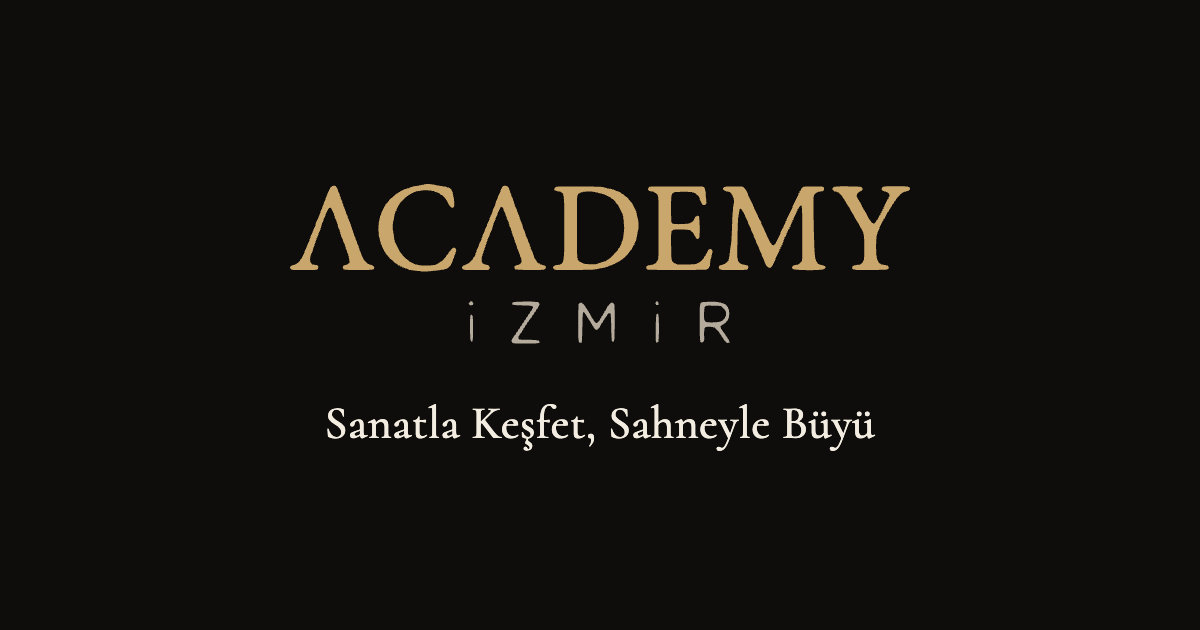
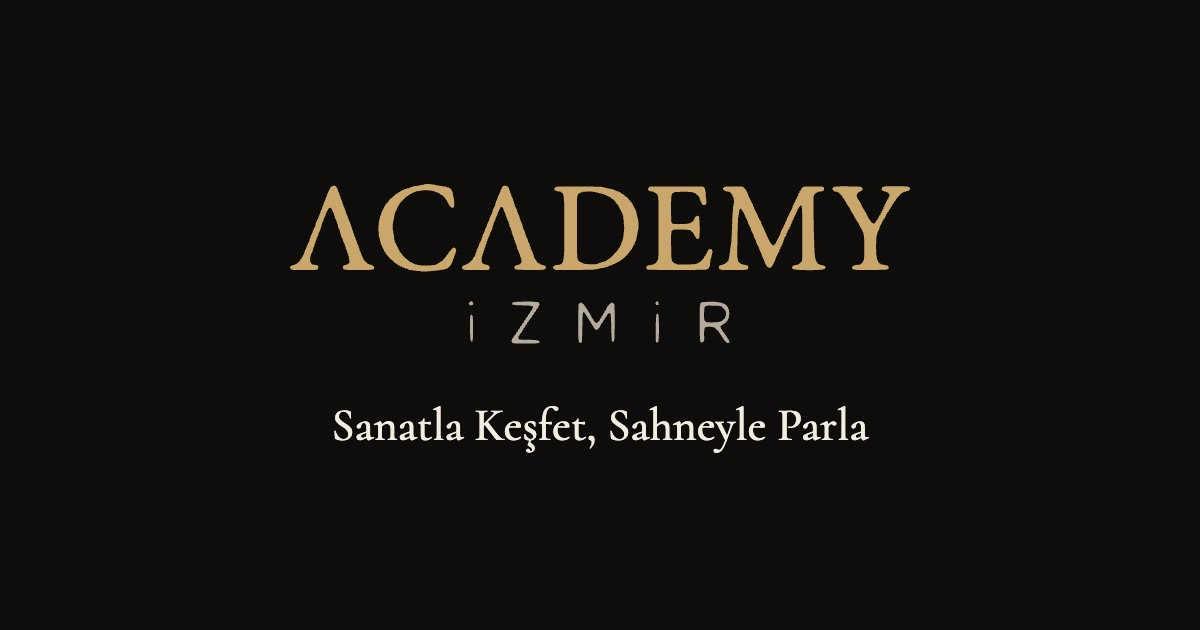
Slogan, duyurular, Ebru Parıltı, Sanatsal Projeler ve GTM body desteği

Changed region(s): [[0.2775, 0.6333, 0.74, 0.7238]]

diff --git a/site/httpdocs/assets/js/main.js b/site/httpdocs/assets/js/main.js
@@ -435,12 +435,16 @@ document.addEventListener('pointerdown', function () { lastInput = 'pointer'; },
 /* ---- Lightbox (galeri, native <dialog>) -----------------------------------------------------------
    Fotoğraf bağlantıları -1600 sürümüne gider (JS yokken normal bağlantı). JS varken dialog açılır:
    önceki/sonraki düğmeleri, ok tuşları, dokunmatikte kaydırma, sayaç. Esc native dialog ile kapatır,
-   kapanınca odak tıklanan fotoğrafa döner, arka plan kaymaz. */
+   kapanınca odak tıklanan fotoğrafa döner, arka plan kaymaz.
+   data-lightbox-group aynı olan görseller kendi aralarında bir küme olur (Sanatsal Projelerimiz: bir oyunun
+   afişi ve sahne fotoğrafları). Grupsuz görseller galeri kümesidir. Tek görsellik kümede gezinme gizlenir.
+   Gizli (hidden) bağlantılar yalnızca kümeye görsel ekler, odak ve kaydırma tıklanan bağlantıya döner. */
 (function () {
   'use strict';
 
   var dialog = document.querySelector('[data-lightbox]');
-  var tiles = Array.prototype.slice.call(document.querySelectorAll('[data-lightbox-item]'));
+  var allTiles = Array.prototype.slice.call(document.querySelectorAll('[data-lightbox-item]'));
+  var tiles = allTiles;
   if (!dialog || !tiles.length || typeof dialog.showModal !== 'function') { return; }
 
   var image = dialog.querySelector('[data-lightbox-image]');
@@ -462,6 +466,7 @@ document.addEventListener('pointerdown', function () { lastInput = 'pointer'; },
     image.alt = thumb.alt;
     image.src = tile.getAttribute('href');
     counter.textContent = (index + 1) + ' / ' + tiles.length;
+    dialog.classList.toggle('is-single', tiles.length === 1);
     previous.setAttribute('aria-disabled', index === 0 ? 'true' : 'false');
     next.setAttribute('aria-disabled', index === tiles.length - 1 ? 'true' : 'false');
     [index - 1, index + 1].forEach(function (i) {
@@ -475,11 +480,14 @@ document.addEventListener('pointerdown', function () { lastInput = 'pointer'; },
     show(target);
   }
 
-  tiles.forEach(function (tile, index) {
+  allTiles.forEach(function (tile) {
+    if (tile.hidden) { return; }
     tile.addEventListener('click', function (event) {
       event.preventDefault();
       trigger = tile;
-      show(index);
+      var group = tile.getAttribute('data-lightbox-group');
+      tiles = allTiles.filter(function (other) { return other.getAttribute('data-lightbox-group') === group; });
+      show(tiles.indexOf(tile));
       dialog.showModal();
       document.body.classList.add('is-lightbox-open');
     });
@@ -495,6 +503,7 @@ document.addEventListener('pointerdown', function () { lastInput = 'pointer'; },
     /* Odak, o an gösterilen fotoğrafa döner. Ekranda değilse görünür olacak şekilde kaydırılır
        (hareket azaltma tercihinde animasyonsuz). */
     var shown = tiles[current] || trigger;
+    if (shown && shown.hidden) { shown = trigger; }
     if (shown) {
       shown.focus({ preventScroll: true });
       var rect = shown.getBoundingClientRect();

diff --git a/site/httpdocs/assets/css/components.css b/site/httpdocs/assets/css/components.css
@@ -2654,6 +2654,63 @@ textarea.form-control {
   gap: var(--space-5);
 }
 
+/* Sanatsal Projelerimiz: mobilde 1, 48em'de 2, 64em'de 3 sütun. Afişler farklı oranlarda olduğu için
+   hepsi aynı yükseklikteki bir kutuda, kırpılmadan (contain) ve ortalanmış durur. */
+.project-grid {
+  display: grid;
+  grid-template-columns: minmax(0, 1fr);
+  gap: var(--space-7) var(--gutter);
+}
+
+.project-card-link {
+  display: grid;
+  align-content: start;
+  gap: var(--space-4);
+}
+
+.project-card-media {
+  display: block;
+  aspect-ratio: var(--ratio-portrait-tall);
+  background-color: var(--color-surface);
+  border: var(--line-width) solid var(--color-line);
+  transition: border-color var(--duration-base) var(--ease-out);
+}
+
+.project-card-media img {
+  display: block;
+  width: 100%;
+  height: 100%;
+  object-fit: contain;
+}
+
+.project-card-title {
+  font-size: var(--text-xl);
+  line-height: var(--leading-heading);
+}
+
+@media (hover: hover) {
+  .project-card-link:hover .project-card-media {
+    border-color: var(--color-accent);
+  }
+}
+
+/* Duyurular sayfası giriş metni */
+.announcements-intro {
+  display: grid;
+  gap: var(--space-4);
+  max-width: var(--measure);
+  padding-bottom: var(--space-7);
+}
+
+.announcements-intro .section-lead {
+  max-width: none;
+}
+
+/* Tek görselli kümede (tek görsellik proje) önceki/sonraki ve sayaç gizlenir. */
+.lightbox.is-single .lightbox-nav {
+  display: none;
+}
+
 /* Galeri mozaiği: mobilde iki sütunlu sıkı akış (görüntü oranı korunur), 48em üstünde
    ana sayfadaki gibi her satırı dolduran justified satırlar. */
 .gallery-mosaic {
@@ -2783,6 +2840,10 @@ textarea.form-control {
   .video-pair {
     grid-template-columns: repeat(2, minmax(0, 1fr));
     gap: var(--gutter);
+  }
+
+  .project-grid {
+    grid-template-columns: repeat(2, minmax(0, 1fr));
   }
 
   .gallery-mosaic {
@@ -3272,5 +3333,11 @@ textarea.form-control {
   .site-body.is-menu-open .whatsapp-float,
   .site-body.is-lightbox-open .whatsapp-float {
     display: none;
+  }
+}
+
+@media (min-width: 64em) {
+  .project-grid {
+    grid-template-columns: repeat(3, minmax(0, 1fr));
   }
 }

diff --git a/site/private/components.php b/site/private/components.php
@@ -252,6 +252,37 @@ function gallery_mosaic(): void
     }
 }
 
+/**
+ * Sanatsal Projelerimiz kartları (site.json "projects"). Kart, oyunun ilk görselini (afiş) gösterir ve
+ * lightbox'ı o oyunun bütün görselleriyle açar. Aynı oyunun diğer görselleri gizli bağlantı olarak
+ * basılır (data-lightbox-group aynı), JS yokken yalnızca afiş bağlantısı çalışır.
+ */
+function project_cards(): void
+{
+    foreach (site()['projects'] as $n => $project) {
+        $group = 'project-' . $project['id'];
+        $count = count($project['images']);
+        $first = $project['images'][0];
+        [$bw, $bh] = image_size($first['src_1600']);
+        [$w, $h] = image_size($first['src_800']);
+        echo '<article class="project-card">
+            <a class="project-card-link" href="' . e(asset($first['src_1600'])) . '" data-lightbox-item data-lightbox-group="' . e($group) . '" data-w="' . $bw . '" data-h="' . $bh . '">
+              <span class="project-card-media">
+                <img src="' . e(asset($first['src_800'])) . '" width="' . $w . '" height="' . $h . '"' . ($n < 3 ? '' : ' loading="lazy"') . ' alt="' . e($first['alt']) . '">
+              </span>
+              <h3 class="project-card-title">' . e($project['title']) . '</h3>
+            </a>';
+        for ($i = 1; $i < $count; $i++) {
+            $extra = $project['images'][$i];
+            [$ebw, $ebh] = image_size($extra['src_1600']);
+            echo '
+            <a href="' . e(asset($extra['src_1600'])) . '" hidden data-lightbox-item data-lightbox-group="' . e($group) . '" data-w="' . $ebw . '" data-h="' . $ebh . '"><img src="' . e(asset($extra['src_800'])) . '" alt="' . e($extra['alt']) . '"></a>';
+        }
+        echo '
+          </article>' . "\n";
+    }
+}
+
 /** Başvuru formundaki seçenekler (site.json "application" nesnesi). */
 function select_options(array $options, string $placeholder, string $selected = ''): void
 {

diff --git a/site/private/partials/head.php b/site/private/partials/head.php
@@ -1,10 +1,12 @@
 <?php
-/** <!DOCTYPE> ile <body> açılışına kadar: title, meta, canonical, og, fontlar, CSS, JS. */
+/** <!DOCTYPE> ile <body> açılışına kadar: title, meta, canonical, og, fontlar, CSS, JS.
+ *  head_scripts charset ve viewport'tan hemen sonra, body_scripts <body> açılışının hemen ardından basılır. */
 $p = page();
 $canonical = absolute_url($p['path']);
 $ogImage = base_url() . '/assets/images/og-image.jpg';
 $searchConsole = trim((string) config('search_console_meta', ''));
-$headScripts = (array) config('head_scripts', []);
+$headScripts = array_filter((array) config('head_scripts', []), static fn ($s): bool => is_string($s) && trim($s) !== '');
+$bodyScripts = array_filter((array) config('body_scripts', []), static fn ($s): bool => is_string($s) && trim($s) !== '');
 $hidden = !empty($p['hidden']);
 ?>
 <!DOCTYPE html>
@@ -12,6 +14,10 @@ $hidden = !empty($p['hidden']);
 <head>
   <meta charset="utf-8">
   <meta name="viewport" content="width=device-width, initial-scale=1">
+<?php foreach ($headScripts as $snippet): ?>
+  <?= $snippet ?>
+
+<?php endforeach; ?>
   <title><?= e($p['title']) ?></title>
   <meta name="description" content="<?= e($p['description']) ?>">
 <?php if ($hidden): ?>
@@ -52,9 +58,9 @@ $hidden = !empty($p['hidden']);
   <link rel="stylesheet" href="/assets/css/base.css">
   <link rel="stylesheet" href="/assets/css/components.css">
   <script src="/assets/js/main.js" defer></script>
-<?php foreach ($headScripts as $snippet): ?>
-  <?= $snippet ?>
-
-<?php endforeach; ?>
 </head>
 <body class="site-body">
+<?php foreach ($bodyScripts as $snippet): ?>
+<?= $snippet ?>
+
+<?php endforeach; ?>

diff --git a/site/httpdocs/gallery.php b/site/httpdocs/gallery.php
@@ -18,9 +18,8 @@ partial('mobile-menu');
         <header class="section-header">
           <h2 class="section-title" id="gallery-projects-title">Sanatsal <em>Projelerimiz</em></h2>
         </header>
-        <div class="content-placeholder">
-          <p class="pending-note">[İÇERİK GELECEK]</p>
-          <p class="content-placeholder-text">Tiyatro yapımları, sahne çalışmaları ve Academy İzmir Trio</p>
+        <div class="project-grid">
+<?php project_cards(); ?>
         </div>
       </div>
     </section>
@@ -59,7 +58,7 @@ partial('mobile-menu');
       </div>
       <div class="lightbox-nav">
         <button class="lightbox-button" type="button" aria-label="Önceki fotoğraf" data-lightbox-prev><span class="material-symbols-outlined" aria-hidden="true">arrow_back</span></button>
-        <p class="lightbox-counter" data-lightbox-counter>1 / <?= count(site()['gallery']) ?></p>
+        <p class="lightbox-counter" data-lightbox-counter>1 / 1</p>
         <button class="lightbox-button" type="button" aria-label="Sonraki fotoğraf" data-lightbox-next><span class="material-symbols-outlined" aria-hidden="true">arrow_forward</span></button>
       </div>
     </dialog>

diff --git a/site/private/config.example.php b/site/private/config.example.php
@@ -22,8 +22,13 @@ return [
     // Zaman tuzağı imzası ve IP özeti için rastgele uzun anahtar (README'de nasıl üretileceği yazıyor).
     'app_secret' => '',
 
-    // <head> sonuna eklenecek ham HTML parçaları (Google Tag Manager, Analytics, Ads kodları). Boş dizi: hiçbir şey basılmaz.
+    // <head> içinde, charset ve viewport meta etiketlerinden hemen sonra basılacak ham HTML parçaları
+    // (Google Tag Manager'ın birinci parçası, Analytics, Ads kodları). Boş dizi: hiçbir şey basılmaz.
     'head_scripts' => [],
+
+    // <body> açılış etiketinin hemen ardından basılacak ham HTML parçaları (Google Tag Manager'ın
+    // ikinci parçası, noscript iframe). Boş dizi: hiçbir şey basılmaz.
+    'body_scripts' => [],
 
     // Google Search Console doğrulama kodu (meta content değeri). Boş: etiket basılmaz.
     'search_console_meta' => '',

diff --git a/site/httpdocs/application.php b/site/httpdocs/application.php
@@ -44,7 +44,7 @@ partial('mobile-menu');
           <form class="form" id="application-form" action="<?= e(url('application')) ?>" method="post" aria-labelledby="application-title" data-application-form>
             <header class="form-header">
               <h2 class="form-title" id="application-title">Sanat Yolculuğuna İlk Adımı <em>At!</em></h2>
-              <p class="section-lead">Eğitim programlarımız hakkında bilgi almak ve ön başvurunuzu oluşturmak için aşağıdaki alanları doldurabilirsiniz.</p>
+              <p class="section-lead">Atölye programlarımız hakkında bilgi almak ve ön başvurunuzu oluşturmak için aşağıdaki alanları doldurabilirsiniz.</p>
             </header>
 
             <div class="form-summary" role="alert" tabindex="-1"<?= $errors ? '' : ' hidden' ?> data-form-summary>

diff --git a/site/httpdocs/contact.php b/site/httpdocs/contact.php
@@ -18,7 +18,7 @@ partial('mobile-menu');
         <section class="contact-callout" aria-labelledby="contact-callout-title">
           <div class="contact-callout-text">
             <h2 class="section-title" id="contact-callout-title">Katılım ve Bilgi <em>Formu</em></h2>
-            <p class="section-lead">Eğitim programlarımız hakkında bilgi almak ve ön başvurunuzu oluşturmak için formu doldurabilirsiniz.</p>
+            <p class="section-lead">Atölye programlarımız hakkında bilgi almak ve ön başvurunuzu oluşturmak için formu doldurabilirsiniz.</p>
           </div>
           <a class="button button-primary" href="<?= e(url('application')) ?>" data-track="form">Ön Başvuru Formuna Git <span class="material-symbols-outlined" aria-hidden="true">arrow_forward</span></a>
         </section>

diff --git a/site/httpdocs/announcements.php b/site/httpdocs/announcements.php
@@ -15,6 +15,11 @@ partial('mobile-menu');
     </header>
     <section class="section" aria-label="Duyurular">
       <div class="container">
+        <div class="announcements-intro">
+          <p class="section-lead">Sanatın, yaratıcılığın ve birlikte üretmenin heyecanını paylaşıyoruz.</p>
+          <p class="section-lead">Academy İzmir bünyesinde gerçekleşen atölyeler, sahne çalışmaları, sanatsal projeler ve etkinliklere ilişkin gelişmeleri bu sayfadan takip edebilirsiniz.</p>
+          <p class="section-lead">Sanatla buluşmaya devam ediyoruz.</p>
+        </div>
 <?php $announcements = announcements_sorted(); if (count($announcements) === 0): ?>
         <p class="empty-state">Güncel duyurularımız yakında burada olacak.</p>
 <?php else: ?>

diff --git a/site/httpdocs/index.php b/site/httpdocs/index.php
@@ -14,7 +14,7 @@ partial('mobile-menu');
         <div class="hero-text">
           <p class="section-eyebrow">İzmir'de Sanat Atölyeleri ve Sahne Çalışmaları</p>
           <h1 class="hero-title">ACADEMY <em>İZMİR</em></h1>
-          <p class="hero-slogan">Sanatla Keşfet, Sahneyle Büyü</p>
+          <p class="hero-slogan">Sanatla Keşfet, Sahneyle Parla</p>
           <p class="hero-intro">Çocuklardan gençlere, gençlerden yetişkinlere; yaratıcı dramadan tiyatroya, baleden dansa, oyunculuktan konservatuvar ve güzel sanatlar hazırlığına uzanan tiyatro, dans ve yaratıcı sanat çalışmaları.</p>
           <div class="hero-actions">
             <a class="button button-secondary" href="<?= e(url('programs')) ?>">Atölyeleri Keşfet</a>

diff --git a/site/httpdocs/about.php b/site/httpdocs/about.php
@@ -15,7 +15,7 @@ partial('mobile-menu');
     </header>
     <section class="section about-intro" aria-label="Giriş">
       <div class="container about-intro-grid">
-        <p class="about-slogan">Sanatla Keşfet, Sahneyle Büyü</p>
+        <p class="about-slogan">Sanatla Keşfet, Sahneyle Parla</p>
         <div class="about-intro-text">
           <p class="about-lead">Her insanın kendine özgü bir sesi, anlatacak bir hikâyesi ve keşfedilmeyi bekleyen bir potansiyeli vardır.</p>
           <p class="about-intro-body">Academy İzmir, bu seslere alan açmak, hikâyeleri birlikte büyütmek ve sanatın dönüştürücü gücünü hayatın bir parçası kılmak için var.</p>

diff --git a/site/private/routes.php b/site/private/routes.php
@@ -87,7 +87,7 @@ return [
         'path' => '/duyurular',
         'file' => 'announcements.php',
         'title' => 'Güncel Kayıtlar ve Duyurular | Academy İzmir',
-        'description' => 'Yeni gruplar, atölyeler ve etkinlikler için duyuru alanı.',
+        'description' => 'Academy İzmir bünyesinde gerçekleşen atölyeler, sahne çalışmaları, sanatsal projeler ve etkinliklere ilişkin gelişmeleri bu sayfadan takip edebilirsiniz.',
         'label' => 'Güncel Kayıtlar ve Duyurular',
         'nav' => 'Duyurular',
         'mobile' => true,
